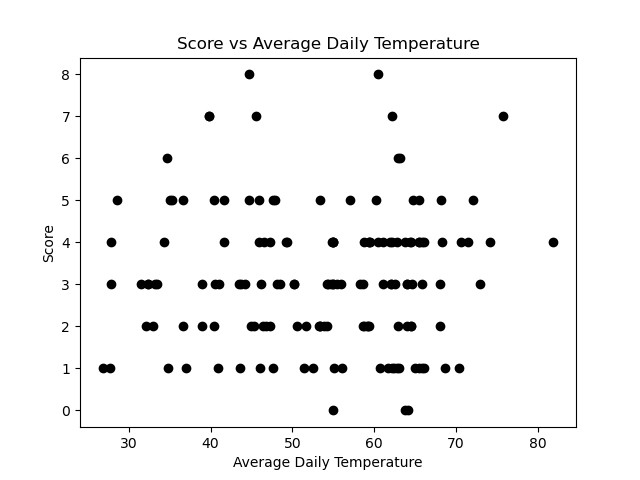
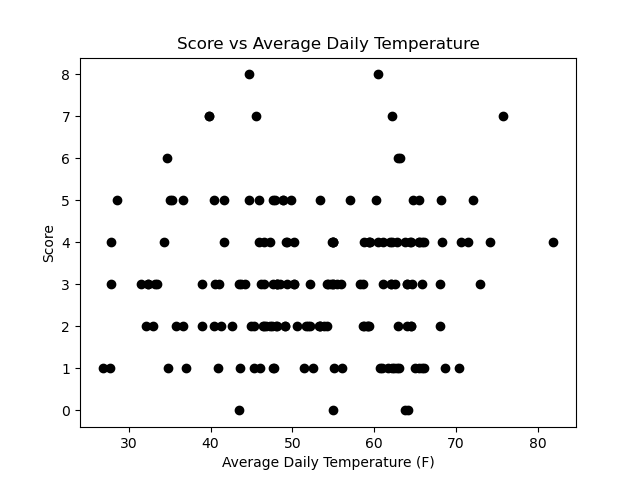
fixed charts

diff --git a/visualisations.py b/visualisations.py
@@ -62,7 +62,7 @@ for temp in temps:
 fig, ax = plt.subplots()
 ax.scatter(temps_list, scores_list, color = 'black')
 ax.set_ylabel('Score')
-ax.set_xlabel('Average Daily Temperature')
+ax.set_xlabel('Average Daily Temperature (F)')
 ax.set_title('Score vs Average Daily Temperature') 
 #ax.set_position([0.28,0.11,0.6,0.6]) 
 plt.savefig('score_vs_temp.png') 
@@ -81,10 +81,10 @@ for temp in temps:
     i+=1
 fig, ax = plt.subplots()
 ax.scatter(temps_list, elevation_list, color = 'purple')
-ax.set_xlabel('Elevation')
-ax.set_ylabel('Average Daily Temperature')
+ax.set_ylabel('Elevation (m)')
+ax.set_xlabel('Average Daily Temperature (F)')
 ax.set_title('Average Daily Temperature vs Elevation') 
-plt.savefig('temp_vs_elivation.png') 
+plt.savefig('temp_vs_elevation.png') 
 plt.show()
 
 cur.execute('SELECT precipitation FROM Weather')
@@ -101,7 +101,7 @@ for precipitation in precipitations:
 fig, ax = plt.subplots()
 ax.scatter(scores_list, precipitation_list, color = 'red')
 ax.set_xlabel('Score')
-ax.set_ylabel('Daily Precipitation')
+ax.set_ylabel('Daily Precipitation (mm)')
 ax.set_title('Daily Precipitation vs Score') 
 #ax.set_position([0.28,0.11,0.6,0.6]) 
 plt.savefig('precipitation_vs_score.png') 
